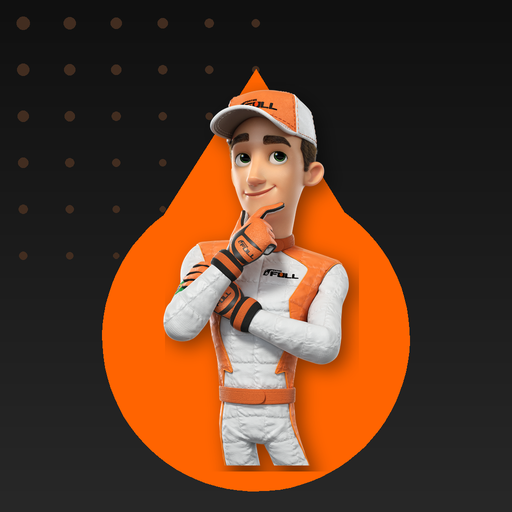
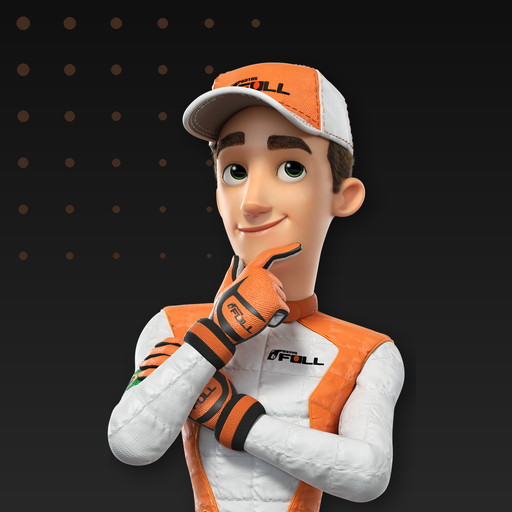
Add files via upload

diff --git a/sw.js b/sw.js
@@ -1,5 +1,5 @@
 // Service worker — cache para funcionamento offline
-const CACHE = "postos-full-v6";
+const CACHE = "postos-full-v7";
 const ARQUIVOS = ["./", "./index.html", "./manifest.json", "./icon-192.png", "./icon-512.png", "./logo-full.png"];
 
 self.addEventListener("install", e => {